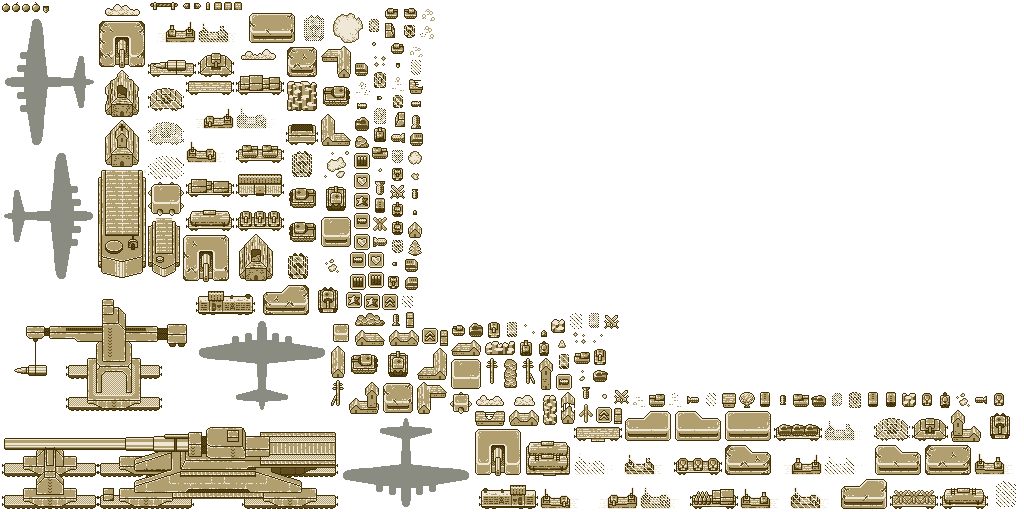
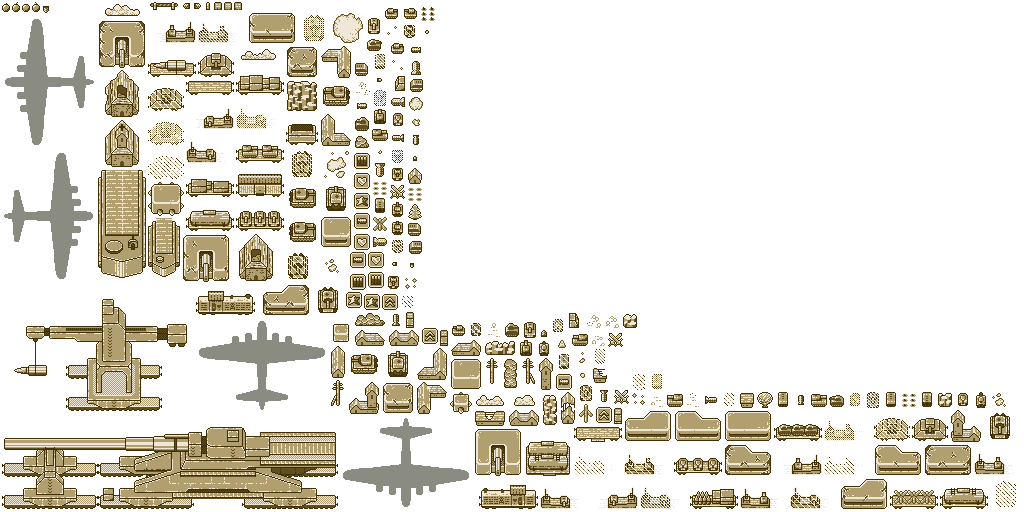
RT-0.18.45 - Spikes added.

Changed region(s): [[0.3438, 0.0, 0.4375, 0.5625], [0.625, 0.7188, 1.0, 0.8125], [0.4375, 0.5938, 0.625, 0.7812]]

diff --git a/core/src/remove/tanks/game/GameApplication.java b/core/src/remove/tanks/game/GameApplication.java
@@ -21,7 +21,7 @@ import java.util.HashSet;
 
 public final class GameApplication extends Game {
 	public static final String TITLE = "Remove Tanks!";
-	public static final String VERSION = "0.18.44";
+	public static final String VERSION = "0.18.45";
 
 	private final Configuration configuration;
 
